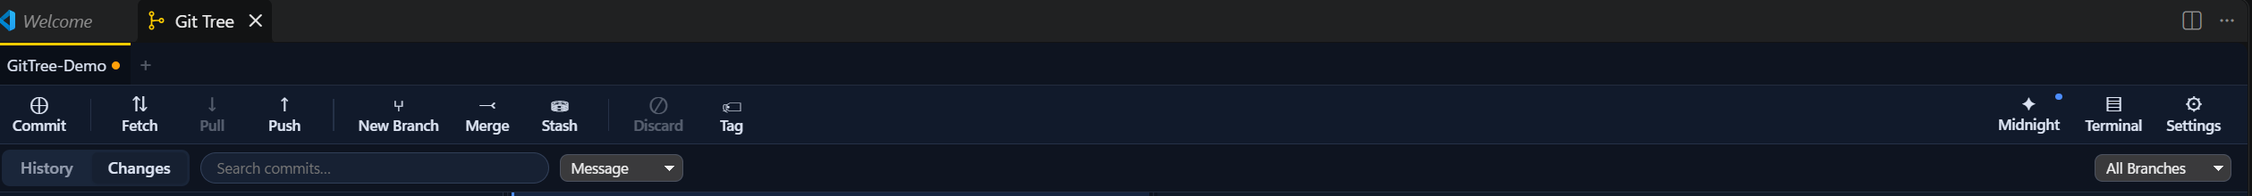
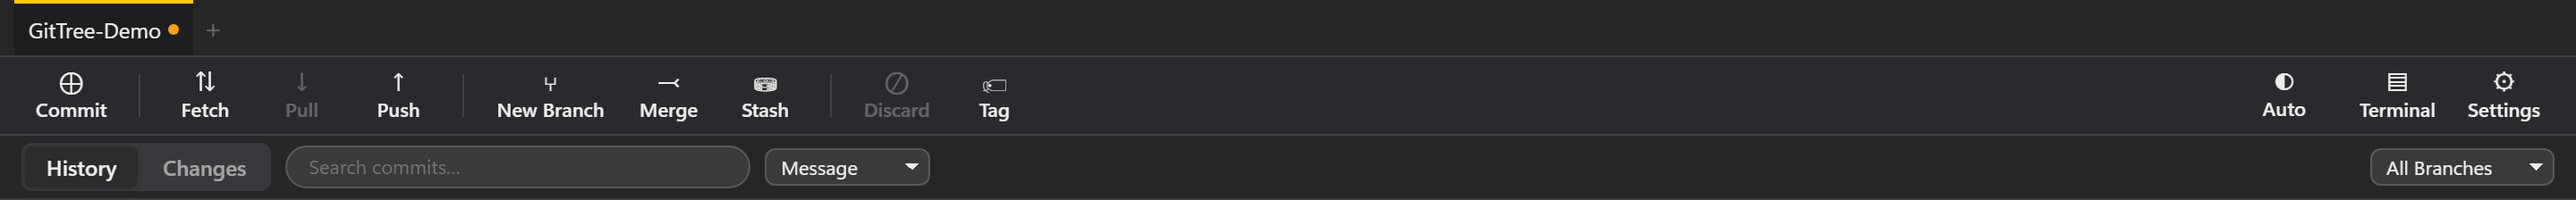
docs: retake the README screenshots from the current UI
All ten images are recaptured at 2x from the GitTree-Demo repository, in
place under the same names, so the README (and the Marketplace page, which
loads them from the repository) shows the four panes with title bars, the
Commit/Push/Stash tabs, checkbox sections, the AI-drafted commit box, the
command sheet and log, the fitted branch sidebar, and four themes. Alt text
is updated to match, and the fixed pane widths the README still quoted are
gone now that panes fit their text.

diff --git a/README.md b/README.md
@@ -18,10 +18,10 @@ Git Tree is **free and open source**. If you find it useful, [buying a coffee](h
 
 Unlike VS Code's flat file list, Git Tree shows your branches, commit graph, and changes side-by-side. No modal dialogs, no context switching.
 
-![Three-pane layout with branches, commit graph, and file diffs](./media/screenshots/01-three-pane-layout.png)
+![Four-pane layout: branches, the commit graph, the selected commit's files, and its diff](./media/screenshots/01-three-pane-layout.png)
 
-- **Left pane:** Branches, tags, remotes, and stashes organized hierarchically with fuzzy-search filtering (180px default)
-- **Middle pane:** The full commit graph with correct lane assignment, real-time updates as you work (250px default, collapsible)
+- **Branches pane:** Branches, tags, remotes, and stashes organized hierarchically with fuzzy-search filtering
+- **Git Tree pane:** The full commit graph with correct lane assignment, real-time updates as you work
 - **Files pane:** The changed files, with line-level staging and conflict resolution from the right-click menu
 - **Code pane:** The diff itself, unified or side by side, in its own full-height column
 - **Fully draggable:** Resize any pane by dragging the divider; layout persists across sessions
@@ -41,7 +41,7 @@ Unlike VS Code's flat file list, Git Tree shows your branches, commit graph, and
 
 Real lane assignment across merges, decorations for HEAD/tags/upstream, author and date columns, and instant navigation. Virtualised so a 50,000-commit repository scrolls at full speed.
 
-![Commit graph showing lanes, merges, and decorations](./media/screenshots/02-commit-graph.png)
+![Commit graph in the Midnight theme: lanes, merges, a stash, branch pills, and aligned author and date columns](./media/screenshots/02-commit-graph.png)
 
 **Key features:**
 
@@ -54,7 +54,7 @@ Real lane assignment across merges, decorations for HEAD/tags/upstream, author a
 
 Pick individual lines, hunks, or whole files. The Files pane has **Staged Changes**, **Changes** and **Untracked Changes** sections; every file has a stage checkbox and a file-type icon, and every section a tick-all checkbox and a file count.
 
-![File staging interface with staged and unstaged sections](./media/screenshots/03-line-level-staging.png)
+![Changes view: Staged Changes, Changes and Untracked Changes sections with checkboxes, beside the staged diff](./media/screenshots/03-line-level-staging.png)
 
 - Stage by file (tick its checkbox), hunk, or individual line
 - **Commit / Push / Stash tabs** — see the commits a push would send, or apply / pop / drop a stash,
@@ -70,7 +70,7 @@ Pick individual lines, hunks, or whole files. The Files pane has **Staged Change
 
 Amend, sign-off, GPG/SSH signing, co-authors, and commit templates — all editable before you press Enter.
 
-![Commit dialog with message, amend, signoff, and signing options](./media/screenshots/04-commit-sheet.png)
+![Commit box with an AI-drafted summary and description, Commit & Push, and Run git hooks](./media/screenshots/04-commit-sheet.png)
 
 - **✨ AI commit messages** — one click drafts a summary and description from your staged diff, using
   the AI model you already have in VS Code (such as GitHub Copilot). No API key; falls back to a
@@ -87,7 +87,7 @@ Amend, sign-off, GPG/SSH signing, co-authors, and commit templates — all edita
 
 Every action opens a modal showing the exact command, **editable in real-time**. Toggle options and the command rewrites itself. Hover to see a plain-English explanation of each flag.
 
-![Command sheet with editable command field and toggleable options](./media/screenshots/05-command-sheet.png)
+![Push command sheet showing the exact git command and its options before anything runs](./media/screenshots/05-command-sheet.png)
 
 **Why this matters:**
 
@@ -100,7 +100,7 @@ Every action opens a modal showing the exact command, **editable in real-time**.
 
 A live console of every git invocation, exit code, runtime, and output. Copy any command and paste it into your terminal. Or send it unsigned so you can read and edit it first.
 
-![Command log showing all git commands, exit codes, and durations](./media/screenshots/06-command-log.png)
+![Command log showing git commands with their exit codes, durations, and a failed merge's error](./media/screenshots/06-command-log.png)
 
 - Scroll through your session history
 - Copy any command verbatim (including pipes/redirects)
@@ -111,7 +111,7 @@ A live console of every git invocation, exit code, runtime, and output. Copy any
 
 With forty-seven branches, a flat list is useless. GitTree nests branches by `/`, collapses folders, and lets you fuzzy-search the full path.
 
-![Branch sidebar with collapsible folders and Current/Recent pinned](./media/screenshots/07-branch-sidebar.png)
+![Branch sidebar filtered by “feat”, with matches highlighted and the pane widened to fit them](./media/screenshots/07-branch-sidebar.png)
 
 - **Current** and **Recent** branches pinned above the tree
 - Type to filter — matches the whole path, not just the prefix
@@ -122,7 +122,7 @@ With forty-seven branches, a flat list is useless. GitTree nests branches by `/`
 
 One-click toolbar buttons for the most common operations. Each opens the command sheet for a second to review. Keyboard shortcuts available (press `?` to see them all).
 
-![Toolbar with Commit, Pull, Push, Branch, Merge, Stash buttons](./media/screenshots/08-toolbar.png)
+![Toolbar with Commit, Fetch, Pull, Push, New Branch, Merge, Stash, Discard, and Tag](./media/screenshots/08-toolbar.png)
 
 | Action | Keyboard | Notes |
 | --- | --- | --- |
@@ -137,7 +137,7 @@ One-click toolbar buttons for the most common operations. Each opens the command
 
 Open a folder and GitTree finds every repository inside it — at any depth. Understands the difference between nested repos, submodules, and worktrees.
 
-![Repository tabs showing multiple open repos with quick-add button](./media/screenshots/09-multi-repo.png)
+![Repository tabs for two open repositories, with the + button to add another](./media/screenshots/09-multi-repo.png)
 
 - **Tabs** for each open repository
 - Scroll position, selection, and filters remembered per-repo
@@ -149,7 +149,7 @@ Open a folder and GitTree finds every repository inside it — at any depth. Und
 
 Follows your VS Code theme by default. Also offers curated system-class alternatives.
 
-![Theme selector dropdown showing multiple theme options](./media/screenshots/10-themes.png)
+![The same view in four themes: Light, macOS Dark, Graphite, and Midnight](./media/screenshots/10-themes.png)
 
 - Cycle themes with `Ctrl+Alt+T` (macOS: `⌘+⌥+T`)
 - High-contrast mode fully supported
